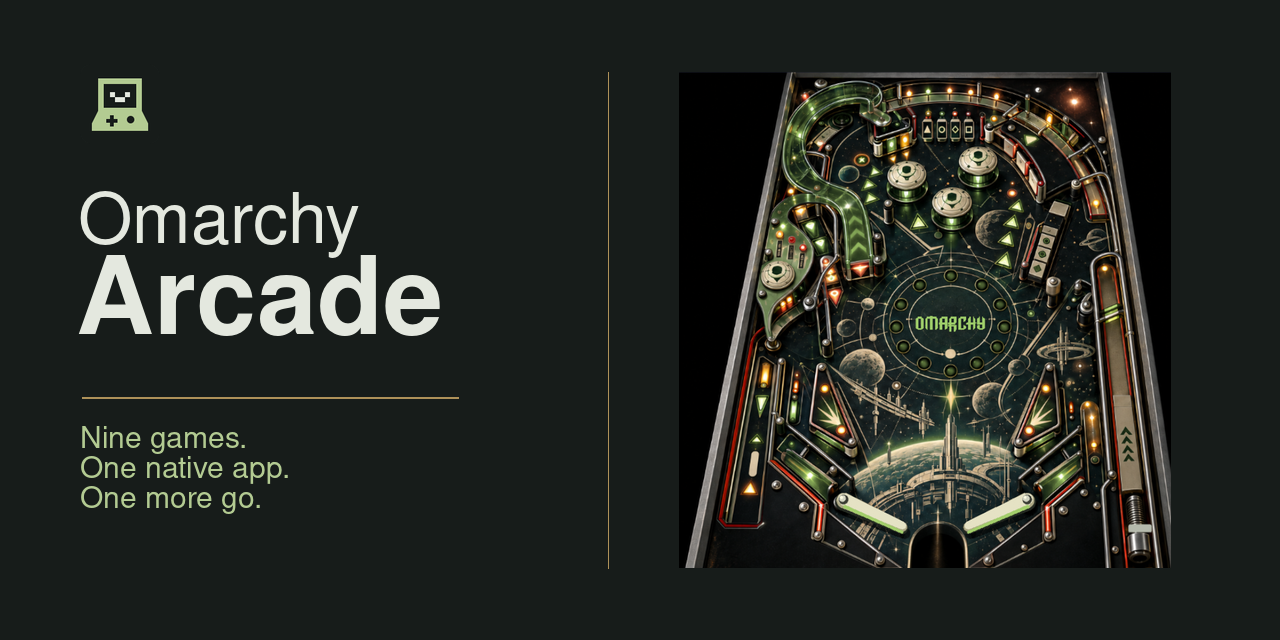
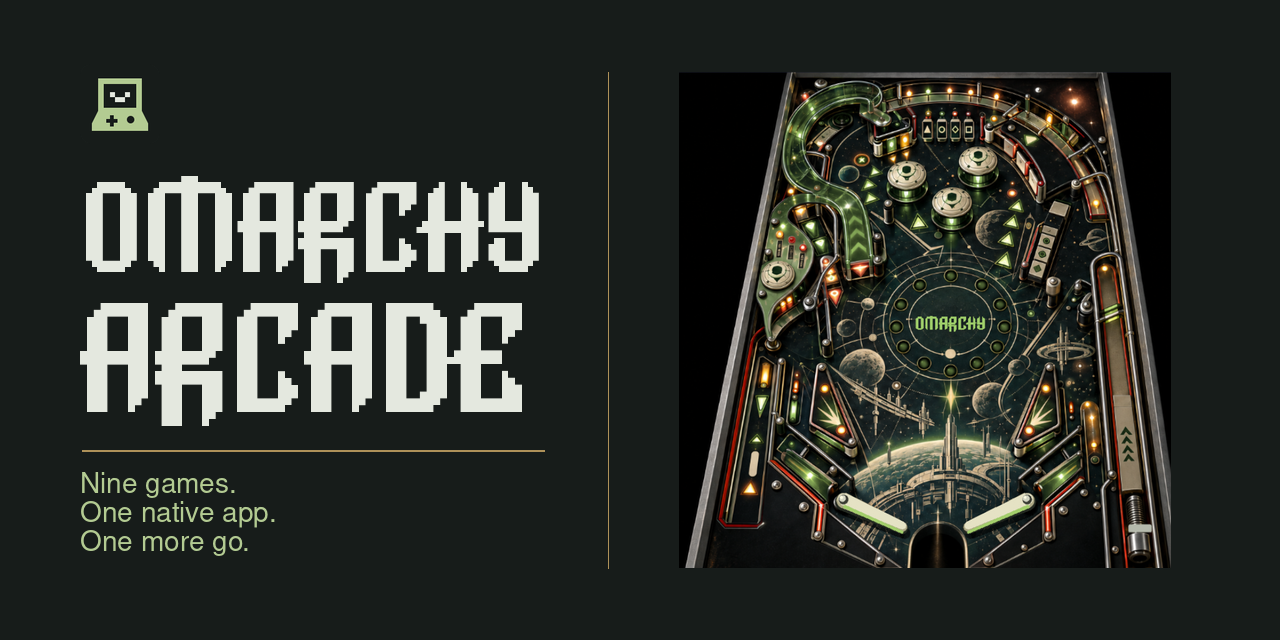
Use Omarchy Font for Arcade branding and retain font provenance [skip ci]

Changed region(s): [[0.0625, 0.2812, 0.4375, 0.875]]

diff --git a/assets/README.md b/assets/README.md
@@ -1,0 +1,24 @@
+# Arcade brand assets
+
+Use **Omarchy Font** for the Omarchy Arcade title and short display headings on social cards and promotional artwork. Use a simple supporting face for taglines, small labels and longer copy. The native app's controls continue to follow its existing typography and theme settings.
+
+## Omarchy Font
+
+- Author: Mark Cuda.
+- Source: [markcuda/Omarchy-Font](https://github.com/markcuda/Omarchy-Font).
+- Pinned revision: `cddbc3eaa86f982e6301c162d6ad25555411f508` (font 2.1).
+- Vendored unchanged as [fonts/Omarchy-Font.ttf](fonts/Omarchy-Font.ttf); upstream filename: `Omarchy Font.ttf`.
+- Git blob SHA: `da0fbc7114ec89a3e2088d22bdd7da4fa6cf1e07`.
+- [MIT licence and copyright notice](fonts/LICENSE.txt).
+
+The font is unicase: lowercase input renders as capitals. Its upstream credits identify Omarchy with DHH and 37signals and the original Delta Corps Priest 1 FIGlet lettering with CoSMiC cHiLD. Mark Cuda's font is a fan project.
+
+## Repository preview
+
+[github-social-preview.png](github-social-preview.png) is 1280 × 640. It uses the exact [Arcade icon](../packaging/omarchy-retro-arcade.svg), an undistorted table crop from the [native Pinball capture](../docs/polish/pinball.png), Omarchy Font for the title, and Nimbus Sans Regular for the tagline:
+
+> Nine games. One native app. One more go.
+
+The palette comes from Arcade: charcoal `#171c1a`, ivory `#e4e8df`, sage `#b3cb92`, brass `#ae9159`. All type is rendered from the actual font files. The PNG passes the social-preview dimensions/size check and has been visually checked at full and 50% size.
+
+The prepared image must be selected separately in GitHub's repository social-preview settings.
